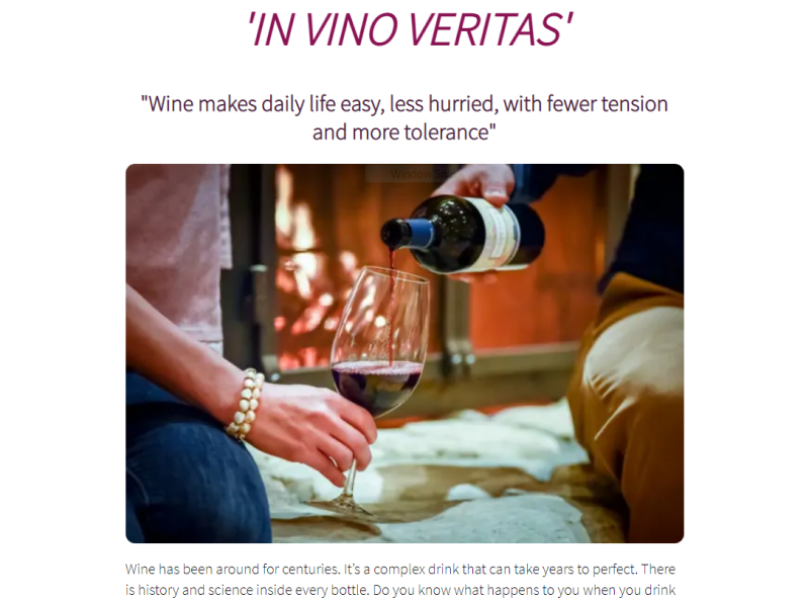
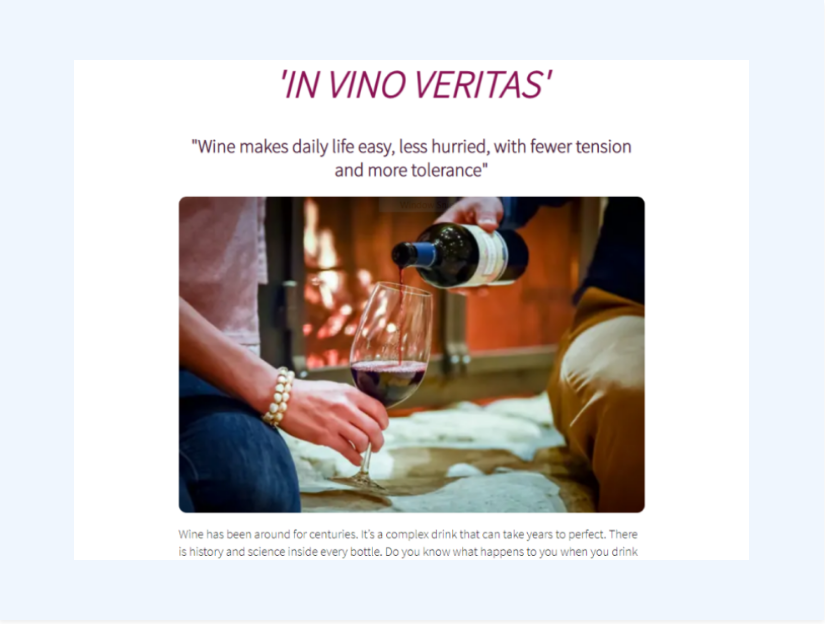
responsive testing

diff --git a/index.html b/index.html
@@ -50,57 +50,57 @@
       </nav> 
       <div class="container">
       <div class="row">
-          <div class="col-sm-6 text-center p-5 presentation">
-              <h2 class="mt-5">
+          <div class="col-sm-6">
+              <h2 class=" text-center ">
                   Hello, my name is
               </h2>
-              <h1 class="mt-3">Denisa Haka</h1>
-              <h3 class="mt-3">Front-end Developer based in London, UK</h3>
-              <div class="navigation-links">
-                  <a href="about.html" class="about-link">About me</a>
-                  <a href="about.html#contact" class="contact-link">Contact me</a>
+              <h1 class="text-center">Denisa Haka</h1>
+              <h3 class="text-center">Front-end Developer based in London, UK</h3>
+              <div class="navigation-links mb-5">
+                  <a href="about.html" class="about-link">about me</a>
+                  <a href="about.html#contact" class="contact-link">contact me</a>
               </div>
           </div>
           <div class="col-sm-6">
               <img src="images/coding-mum.jpg" 
-              class="img-fluid mx-auto d-block"
-              width="600px"
+              class="img-fluid d-none d-sm-block"
+   
               alt="">
           </div>
       </div>
    
       <div class="row mt-5">
-          <div class="col-sm-6 shadow-sm image-background">
-              <img src="images/weatherappimage.png" alt="" class="img-fluid rounded  p-5  mx-auto d-block" width="500px">
+          <div class="col-sm-6">
+              <img src="images/weatherapp.PNG" alt="" class="img-fluid rounded d-none d-sm-block" >
           </div>
           <div class="col-sm-6">
-              <h2 class="mt-5">
+              <h2 class="">
                    Weather App
               </h2>
-              <p class="mt-5"> Lorem ipsum dolor sit amet consectetur adipisicing elit. Perferendis
+              <p class=""> Lorem ipsum dolor sit amet consectetur adipisicing elit. Perferendis
             quia, dignissimos nam ratione veniam quibusdam porro omnis quam vel
             eos eveniet alias temporibus deserunt veritatis minima fugiat
             explicabo eum dolore.</p>
-            <div class="mt-5">
+            <div class="mt-4">
                 <a href="https://wonderful-ritchie-25f194.netlify.app/" class="app-link">Launch App</a>
             </div>
           </div>
       </div>
       <div class="row mt-5">
           <div class="col-sm-6">
-              <h2 class="mt-5">Wine</h2>
-              <p class="mt-5">  Lorem ipsum dolor sit amet consectetur adipisicing elit. Perferendis
+              <h2 class="">Wine</h2>
+              <p class="">  Lorem ipsum dolor sit amet consectetur adipisicing elit. Perferendis
             quia, dignissimos nam ratione veniam quibusdam porro omnis quam vel
             eos eveniet alias temporibus deserunt veritatis minima fugiat
             explicabo eum dolore.  </p>
-            <div class="mt-5">
+            <div class="mt-4 mb-4">
                 <a href="#" class="app-link">Launch project</a>
             </div>
           </div>
-          <div class="col-sm-6 shadow-sm image-background">
+          <div class="col-sm-6 ">
               <img src="images/wineproject.PNG"
-              class="img-fluid rounded  mx-auto d-block p-5"
-              width="500px"
+              class="img-fluid rounded d-none d-sm-block "
+            
                alt="">
           </div>
       </div>

diff --git a/about.html b/about.html
@@ -67,21 +67,21 @@
         dolore.
       </p>
       <div class="row mt-5">
-           <div class="col-sm-6 ">
+           <div class="col-sm-6 mb-3">
           <img
-            src="images/weatherappimage.png"
+            src="images/weatherapp.PNG"
             alt=""
-            class="img-fluid rounded  p-5 mx-auto d-block shadow-sm image-background "
-            width="500px"
+            class="img-fluid rounded"
+           
           />
         </div>
 
         <div class="col-sm-6  ">
           <img
             src="images/wineproject.PNG"
-            class="img-fluid rounded  p-5 mx-auto d-block shadow-sm image-background"
+            class="img-fluid rounded "
             alt=""
-            width="500px"
+           
           />
         </div>
       </div>

diff --git a/styles.css b/styles.css
@@ -8,7 +8,6 @@ body{
     margin: 100px 0;
 }
 
-
 h1,
 h2,
 h3,
@@ -16,10 +15,10 @@ p{
     color: var(--background-color);
 }
 h1{
-    font-size: 70px;
+    font-size: 65px;
 }
 h2{
-    font-size: 40px;
+    font-size: 38px;
 }
 h3{
     opacity:0.8;
@@ -32,14 +31,14 @@ p{
 .navigation-links{
     display: flex;
     justify-content: center;
-    margin-top: 50px;
+    margin-top: 40px;
 }
 
 .navigation-links a{
     text-decoration: none;
-    text-transform: white;
-    margin: 30px;
-    padding: 10px;
+    text-transform:capitalize;
+    margin: 20px;
+    padding: 10px 5px;
     border-radius: 20px;
 }
 .navigation-links a:hover{
@@ -81,6 +80,4 @@ p{
   color: var(--secondary-color);
 }
 
-.image-background{
-    background: #eff6fe;
-}
+
